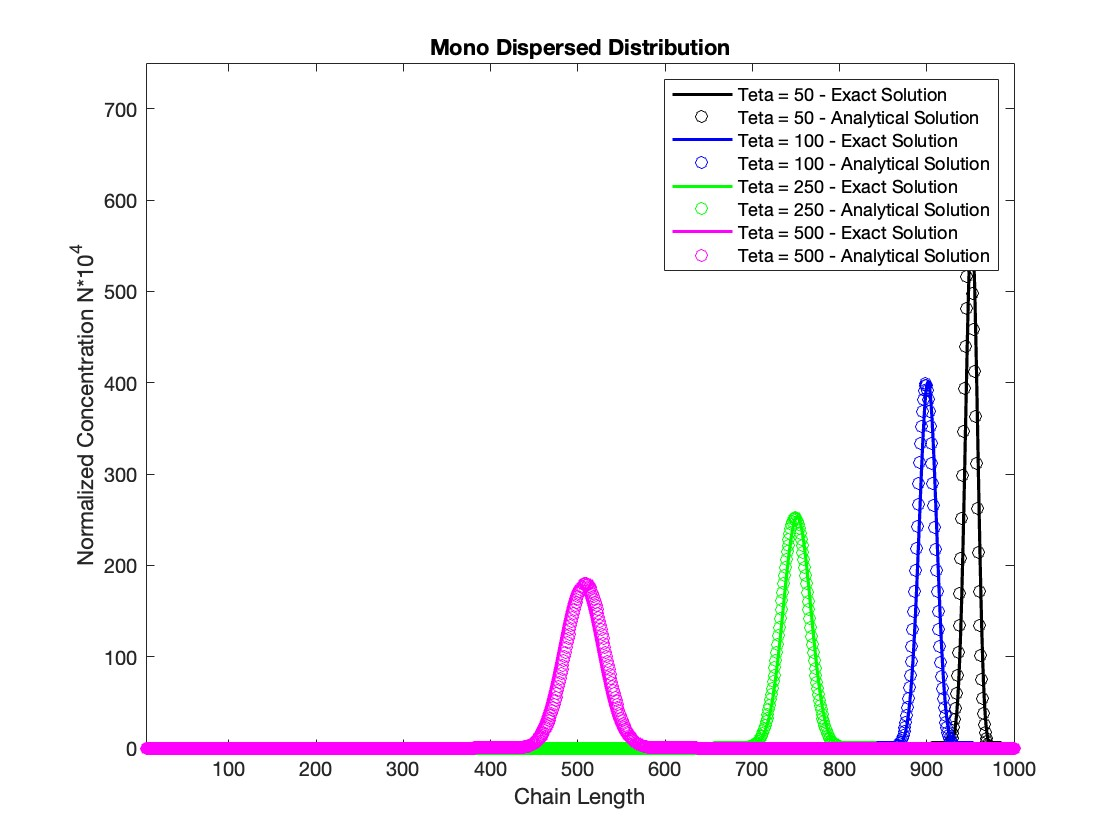
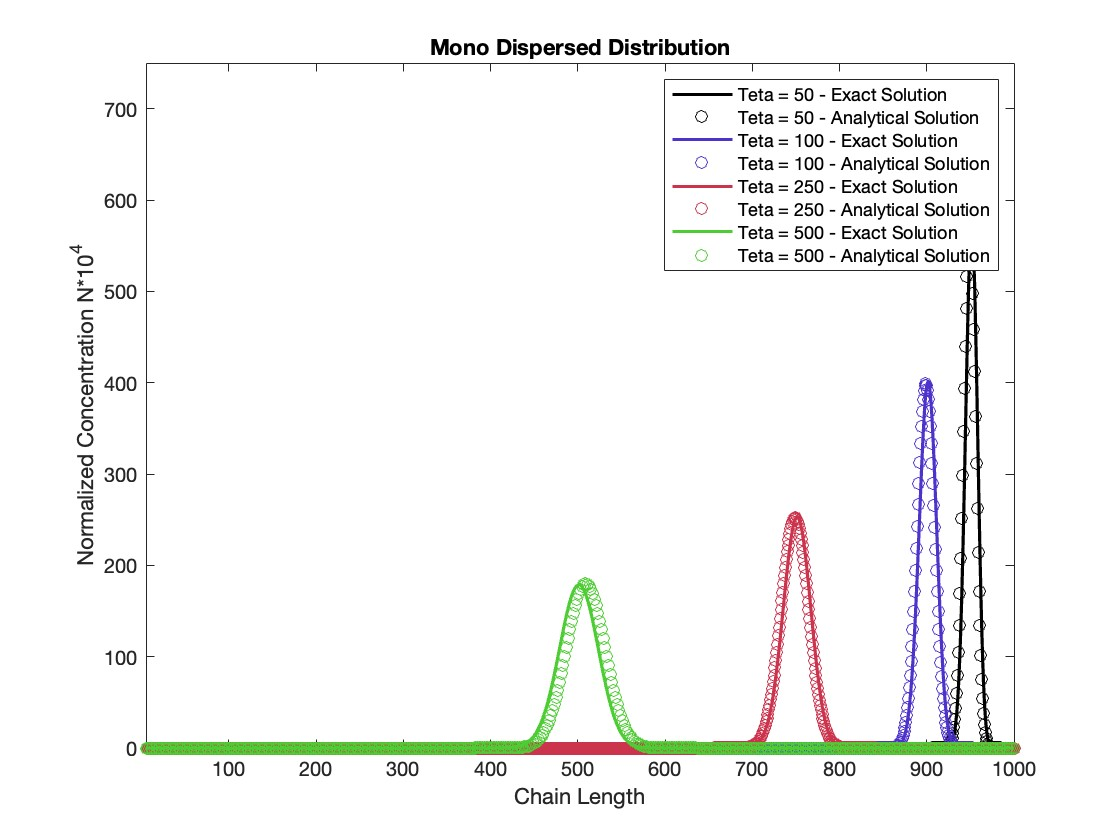
Add files via upload

Changed region(s): [[0.125, 0.4333, 0.9062, 0.8976], [0.5938, 0.2167, 0.6562, 0.2786], [0.625, 0.1548, 0.6562, 0.1857]]

diff --git a/PBE_monodispersa.m b/PBE_monodispersa.m
@@ -11,7 +11,7 @@ global N
 kd = 1/200; %[1/s]
 N = 1000;
 chain_length = 1:1000;
-x=1:1:N; % chain length vector 
+x=1:0:N; % chain length vector 
 
 %Monodisperse distribution
 
@@ -58,16 +58,16 @@ figure(1)
 
 plot(chain_length, P(50,:).*1e4, 'LineWidth',1.6, 'Color','black')
 hold on
-plot(x,Pn_matrix(6,:).*1e4,"o", 'Color','black')
+plot(chain_length,Pn_matrix(6,:).*1e4,"o", 'Color','black')
 
-plot(chain_length, P(100,:).*1e4, 'LineWidth',1.6, 'Color','blue')
-plot(x,Pn_matrix(11,:).*1e4,"o", 'Color','blue')
+plot(chain_length, P(100,:).*1e4, 'LineWidth',1.6, 'Color','[0.3 0.2 0.8]')
+plot(chain_length,Pn_matrix(11,:).*1e4,"o", 'Color','[0.3 0.2 0.8]')
 
-plot(chain_length, P(250,:).*1e4, 'LineWidth',1.6, 'Color','green')
-plot(x,Pn_matrix(26,:).*1e4,"o", 'Color','green')
+plot(chain_length, P(250,:).*1e4, 'LineWidth',1.6, 'Color','[0.8 0.2 0.3]')
+plot(chain_length,Pn_matrix(26,:).*1e4,"o", 'Color','[0.8 0.2 0.3]')
 
-plot(chain_length, P(500,:).*1e4, 'LineWidth',1.6, 'Color','magenta')
-plot(x,Pn_matrix(50,:).*1e4,"o", 'Color','magenta')
+plot(chain_length, P(500,:).*1e4, 'LineWidth',1.6, 'Color','[0.3 0.8 0.2]')
+plot(chain_length(1:2:end),Pn_matrix(50,1:2:end).*1e4,"o", 'Color','[0.3 0.8 0.2]')
 axis([5 1000 0 750])
 legend('Teta = 50 - Exact Solution','Teta = 50 - Analytical Solution', 'Teta = 100 - Exact Solution','Teta = 100 - Analytical Solution','Teta = 250 - Exact Solution', 'Teta = 250 - Analytical Solution', 'Teta = 500 - Exact Solution', 'Teta = 500 - Analytical Solution')
 title('Mono Dispersed Distribution')

diff --git a/PBE_FS.m b/PBE_FS.m
@@ -62,14 +62,14 @@ figure(1)
 
 plot(chain_length, P0.*1e4, 'LineWidth',1.6, 'Color','black')
 hold on
-plot(chain_length, P(10,:).*1e4, 'LineWidth',1.6, 'Color','blue')
-plot(chain_length,Pn_matrix(10,:).*1e4,"o",  'Color','blue')
+plot(chain_length, P(10,:).*1e4, 'LineWidth',1.6, 'Color','[0.3 0.2 0.8]')
+plot(chain_length,Pn_matrix(10,:).*1e4,"o",  'Color','[0.3 0.2 0.8]')
 
-plot(chain_length, P(25,:).*1e4, 'LineWidth',1.6, 'Color','green')
-plot(chain_length,Pn_matrix(25,:).*1e4,"o", 'Color', 'green')
+plot(chain_length, P(25,:).*1e4, 'LineWidth',1.6, 'Color','[0.8 0.2 0.3]')
+plot(chain_length,Pn_matrix(25,:).*1e4,"o", 'Color', '[0.8 0.2 0.3]')
 
-plot(chain_length, P(45,:).*1e4, 'LineWidth',1.6, 'Color','magenta')
-plot(chain_length,Pn_matrix(45,:).*1e4,"o", 'Color','magenta')
+plot(chain_length, P(45,:).*1e4, 'LineWidth',1.6, 'Color','[0.3 0.8 0.2]')
+plot(chain_length,Pn_matrix(45,:).*1e4,"o", 'Color','[0.3 0.8 0.2]')
 
 axis([2.3 100 0 200])
 legend('Teta = 0', 'Teta = 100 - Exact Solution','Teta = 100 - Analytical Solution','Teta = 250 - Exact Solution','Teta = 250 - Analytical Solution','Teta = 500 - Exact Solution', 'Teta = 500 - Analytical Solution')

diff --git a/PBE_Poisson.m b/PBE_Poisson.m
@@ -60,14 +60,14 @@ figure(1)
 
 plot(chain_length, P0.*1e4, 'LineWidth',1.6, 'Color','black')
 hold on
-plot(chain_length, P(10,:).*1e4, 'LineWidth',1.6, 'Color','blue')
-plot(chain_length,Pn_matrix(10,:).*1e4,"o",  'Color','blue')
+plot(chain_length, P(10,:).*1e4, 'LineWidth',1.6, 'Color','[0.3 0.2 0.8]')
+plot(chain_length,Pn_matrix(10,:).*1e4,"o",  'Color','[0.3 0.2 0.8]')
 
-plot(chain_length, P(25,:).*1e4, 'LineWidth',1.6, 'Color','green')
-plot(chain_length,Pn_matrix(25,:).*1e4,"o", 'Color', 'green')
+plot(chain_length, P(25,:).*1e4, 'LineWidth',1.6, 'Color','[0.8 0.2 0.3]')
+plot(chain_length,Pn_matrix(25,:).*1e4,"o", 'Color', '[0.8 0.2 0.3]')
 
-plot(chain_length, P(45,:).*1e4, 'LineWidth',1.6, 'Color','magenta')
-plot(chain_length,Pn_matrix(45,:).*1e4,"o", 'Color','magenta')
+plot(chain_length, P(45,:).*1e4, 'LineWidth',1.6, 'Color','[0.3 0.8 0.2]')
+plot(chain_length,Pn_matrix(45,:).*1e4,"o", 'Color','[0.3 0.8 0.2]')
 
 axis([3 100 0 600])
 legend('Teta = 0', 'Teta = 100 - Exact Solution','Teta = 100 - Analytical Solution','Teta = 250 - Exact Solution','Teta = 250 - Analytical Solution','Teta = 500 - Exact Solution', 'Teta = 500 - Analytical Solution')
